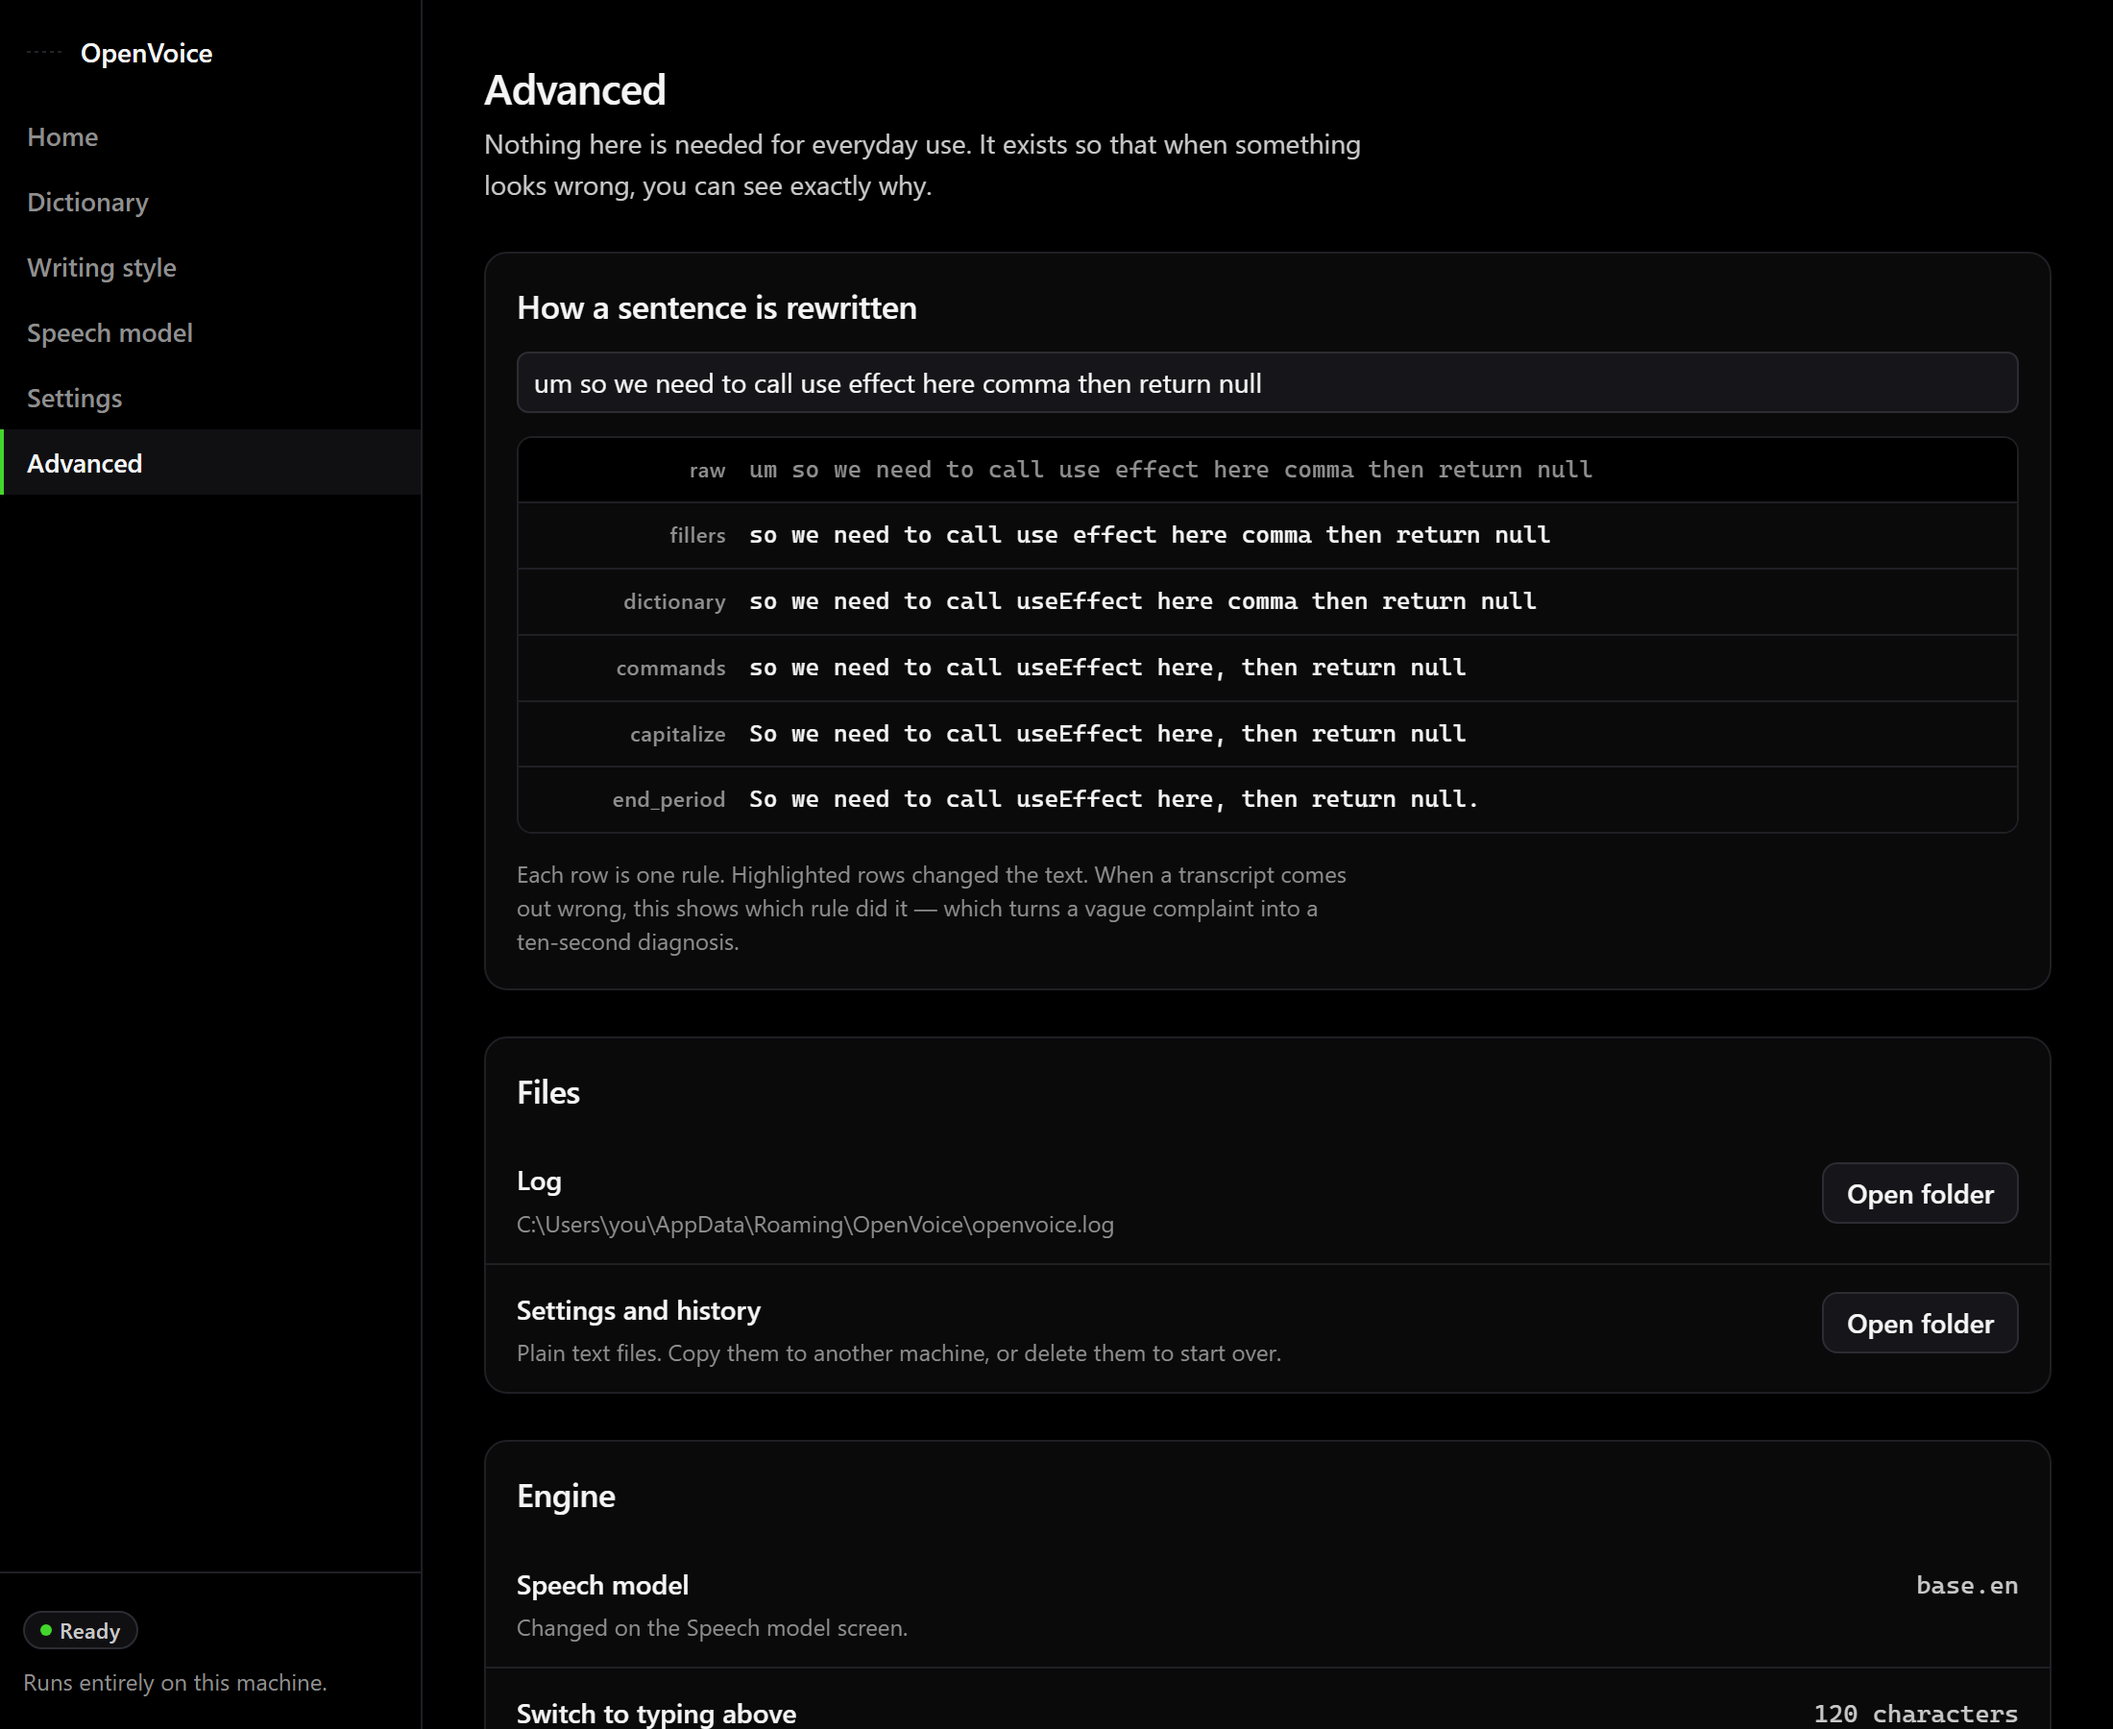
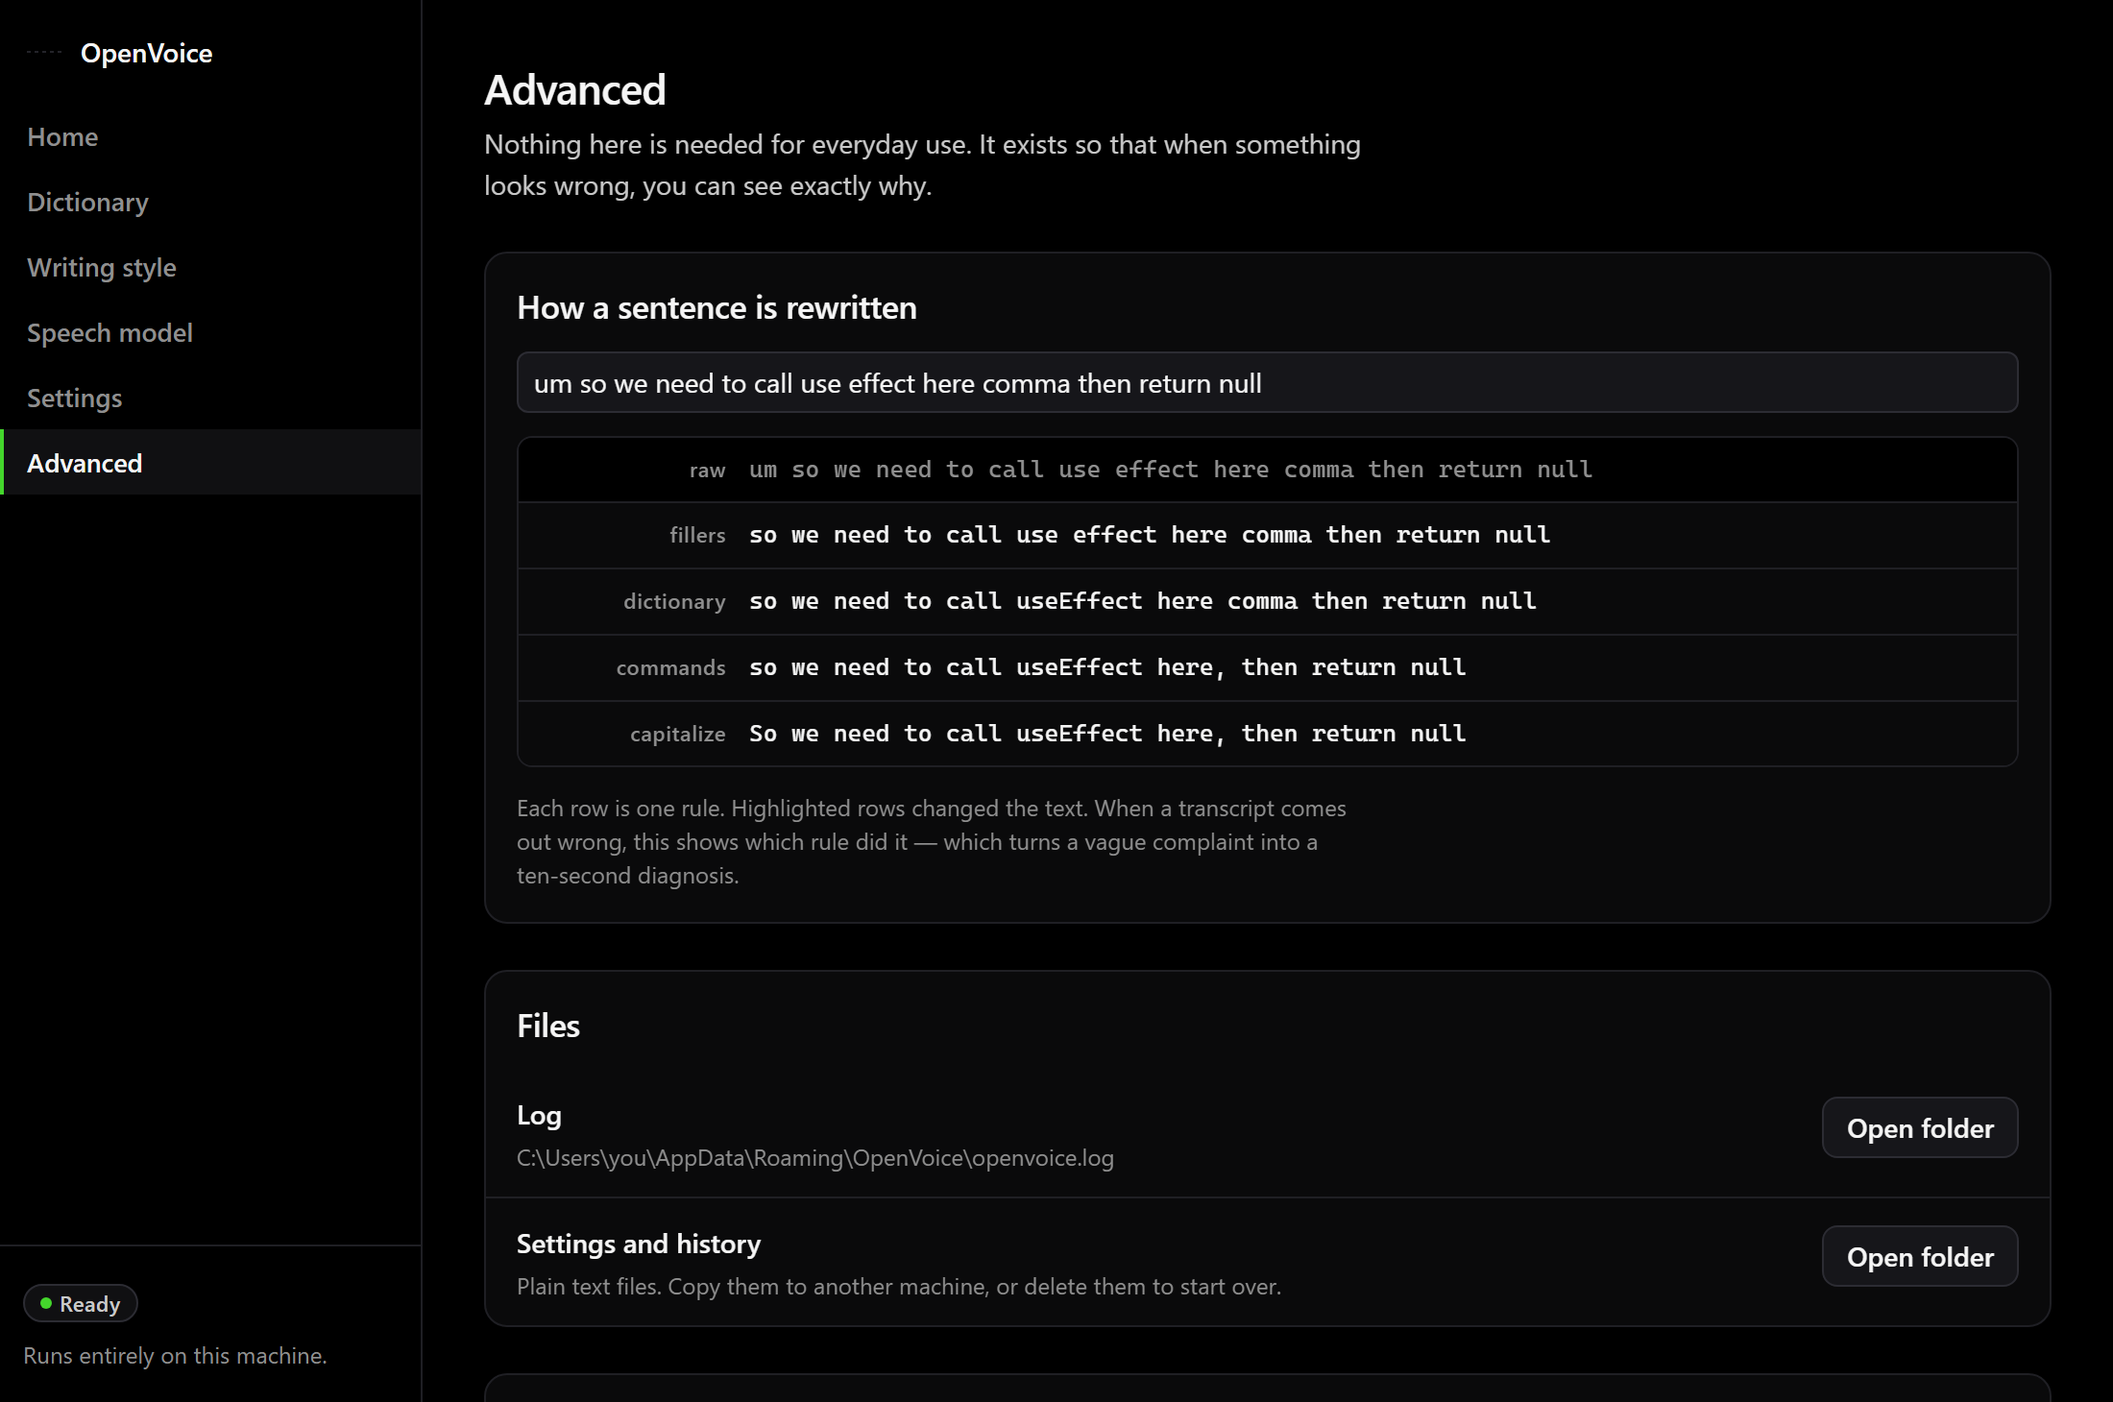
docs: show the screens, and say where their data comes from
Adds a "What it looks like" section between Why and Principles. Someone who has
just read the pitch wants to see the thing before they read five principles
about it, and until now the README answered that with one 420px pill.

Ordered by what actually argues for the product rather than by the nav:

  1. Advanced, first, because the rule-by-rule trace *is* the thesis. "The
     formatting is the product" is a claim in prose and a screenshot of a table
     showing the sentence after each rule.
  2. Dictionary, with a phrase already in the live preview.
  3. The Flow Bar in all six states over a white document.

Writing style, Speech model and Settings are behind a <details>, so the section
is complete without being a wall.

The Design section now says plainly that the screens are reading fixture data,
which they are, and links the file. That paragraph previously claimed the
screenshots "cannot drift from the interface they claim to show" -- still true,
and now it does not leave a reader assuming the numbers came off someone's
machine. They did before, which was the problem.

Also fixes the Home caption, which said "on a fresh install" beside a screen
reporting 9,540 words.

The formatter trace fixture is now profile-dependent. Dictionary asks
`preview_format` for `prose` and Advanced asks for `editor`; prose sets
`end_period` and editor does not, so one fixed answer put a full stop on the
Advanced screen that the profile named two inches away would never add.

diff --git a/README.md b/README.md
@@ -30,10 +30,12 @@ No cloud, no account, no telemetry.
 ---
 
 <div align="center">
-<img src="docs/images/hub-home.png" width="880" alt="OpenVoice home screen showing speaking speed against typing and average speech, time saved, day streak, and recent dictations">
+<img src="docs/images/hub-home.png" width="880" alt="OpenVoice home screen: 9,540 words dictated, a speaking speed of 152 words per minute charted against a 40 wpm typing baseline and 150 wpm average speech, 2 hours 56 minutes saved, a 6 day streak, most-used app VS Code, and a list of recent dictations">
 <br>
-<sub>Home, on a fresh install. Your speaking speed fills in against the 40 wpm
-typing baseline once you have dictated something.</sub>
+<sub>Home. Your speaking speed is measured from how long you actually spoke, not
+from wall-clock time, and placed against the 40 wpm typing baseline — because the
+alternative to dictating is typing, not silence. The figures here are fixture
+data; see <a href="#design">Design</a>.</sub>
 </div>
 
 ---
@@ -77,6 +79,76 @@ cargo run -p ov-cli -- format "cube control get pods" --profile terminal --trace
 It works the same in an email, a chat box, a document or a terminal. What changes
 is how it formats: OpenVoice knows which app has focus and applies the rules that
 app deserves.
+
+## What it looks like
+
+One window and one floating pill. The window is where you teach it; the pill is
+the only part you see while you work.
+
+<div align="center">
+<img src="docs/images/hub-advanced.png" width="880" alt="The Advanced screen. A box contains the phrase 'um so we need to call use effect here comma then return null', and beneath it a table shows the sentence after each rule in turn: raw, fillers, dictionary, commands, capitalize. Below that, a Files card gives the log path and the settings folder">
+<br>
+<sub><b>The formatter, rule by rule.</b> Every stage the sentence passed through
+and what it looked like after each one. When a transcript comes out wrong this
+turns "the dictation is bad" into the name of the rule that did it — and it is
+the same trace <code>ov format --trace</code> prints in a terminal.</sub>
+</div>
+
+<br>
+
+<div align="center">
+<img src="docs/images/hub-dictionary.png" width="880" alt="The Dictionary screen. A phrase typed into 'Try a phrase' reads 'um so we need to call use effect here comma then return null', and the box below shows the formatted result: 'So we need to call useEffect here, then return null.' Underneath, a table of corrections maps spoken forms such as 'use effect' and 'jason' to written forms useEffect and JSON">
+<br>
+<sub><b>Dictionary.</b> Type what OpenVoice wrote, and watch the rules run on it.
+The corrections below are the ones it ships with; add your own and the box above
+changes as you type.</sub>
+</div>
+
+<br>
+
+<div align="center">
+<img src="docs/images/flow-bar-states.png" width="880" alt="The Flow Bar in six states over a white document: idle showing 'Hold Right Ctrl', listening with a green waveform and a 0:04 timer, working showing 'Writing…', landed, a clipboard fallback reading 'Copied to clipboard — press Ctrl+V', and a failure reading 'No text was produced'">
+<br>
+<sub><b>The Flow Bar</b>, every state, over a white document — one of the four
+backdrops it is reviewed against, because a border that reads on black and
+disappears on white is a defect worth catching before you ship it.</sub>
+</div>
+
+<details>
+<summary><b>Writing style, Speech model and Settings</b></summary>
+
+<br>
+
+<div align="center">
+<img src="docs/images/hub-writing-style.png" width="880" alt="The Writing style screen with tabs for default, Terminals, Code editors, and Messages and documents. The default tab shows toggles for capitalising sentences, ending with a full stop, spoken punctuation and spoken naming styles, and a dropdown for filler word removal set to Light">
+<br>
+<sub>The same words should look different depending on where they land. Four sets
+of rules, and OpenVoice picks one from whichever app has focus — a chat message
+gets a capital letter and a full stop, a terminal command gets neither.</sub>
+</div>
+
+<br>
+
+<div align="center">
+<img src="docs/images/hub-speech-model.png" width="880" alt="The Speech model screen listing three models: Accurate (large-v3-turbo, 1.6 GB, about 650 ms), Light (small.en, 249 MB, about 300 ms) and Fastest (base.en, 75 MB, about 190 ms), the last marked as in use">
+<br>
+<sub>Described by what they cost you, not by their identifiers. The catalogue is
+<a href="crates/ov-asr/src/catalog.rs"><code>ov-asr/src/catalog.rs</code></a>, the
+one place those sizes exist; the timings are measured on the reference machine
+named in the paragraph underneath them.</sub>
+</div>
+
+<br>
+
+<div align="center">
+<img src="docs/images/hub-settings.png" width="880" alt="The Settings screen: shortcut set to Right Ctrl, activation set to Hold to talk, microphone on the system default, language on auto-detect, sound feedback on, maximum recording of 2 minutes, and an Updates section explaining that the launch check sends one request carrying no identifier">
+<br>
+<sub>Nothing here is decorative. Transcript redaction, audio retention, toggle
+activation and the recording limit were all controls with nothing behind them
+until v0.2.0; each now does what it says.</sub>
+</div>
+
+</details>
 
 ## Principles
 
@@ -380,10 +452,21 @@ npm --prefix apps/ui ci
 npm run dev:ui          # then open http://localhost:5199/?window=sheet
 ```
 
-`?window=hub` is the main window and `?window=overlay` is the Flow Bar on its own.
-Screenshots in this README are captured from that same running UI by
-[`scripts/screenshots.mjs`](scripts/screenshots.mjs), so they cannot drift from
-the interface they claim to show.
+`?window=hub` is the main window, `?window=overlay` is the Flow Bar on its own,
+and `?window=flowbar` is every Flow Bar state at once, over the four kinds of
+surface it has to stay legible against.
+
+Every screenshot in this README is captured from that same running UI by
+[`scripts/screenshots.mjs`](scripts/screenshots.mjs), so none of them can drift
+from the interface it claims to show. What the screens are *reading* is fixture
+data from [`scripts/screenshot-fixtures.mjs`](scripts/screenshot-fixtures.mjs) —
+the dictionary, profiles and model catalogue copied from the Rust sources they
+mirror, the history rows taken from tests in `ov-format`, and one invented
+month's worth of totals. Nothing here is a mocked component or a drawing of a
+screen: the real `Hub` renders against the real `invoke` boundary, and only the
+far side of it is canned. That is also why these are safe to recapture — the
+previous versions came off a live machine and published whatever had last been
+dictated into it.
 
 ## Contributing
 
